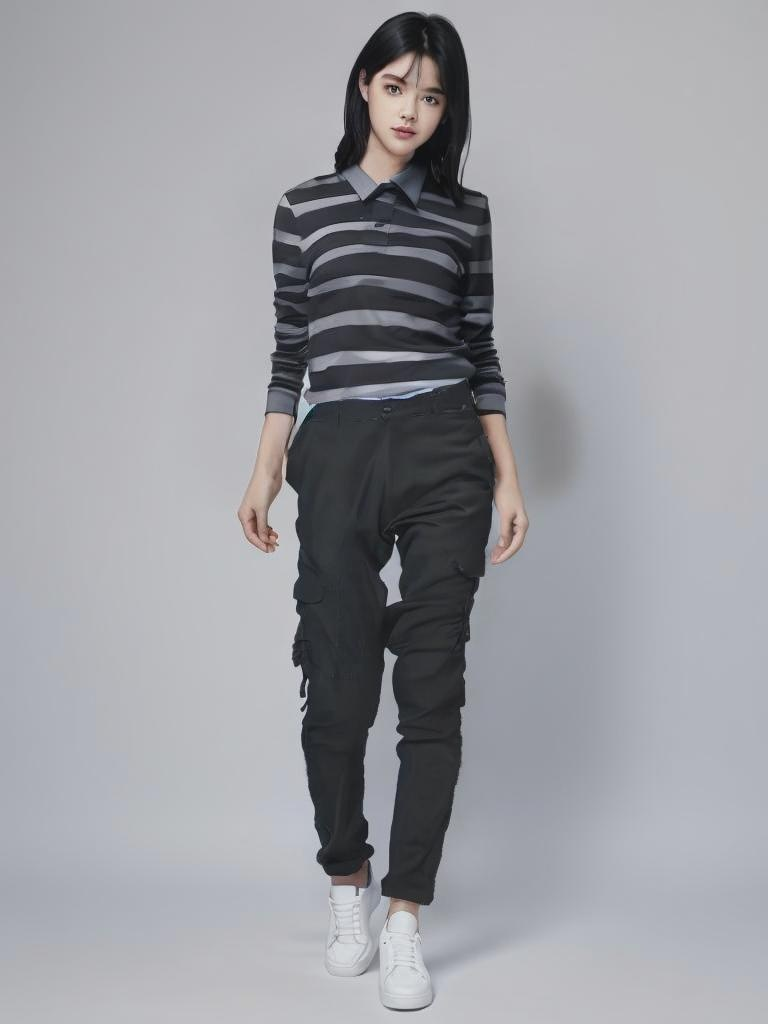
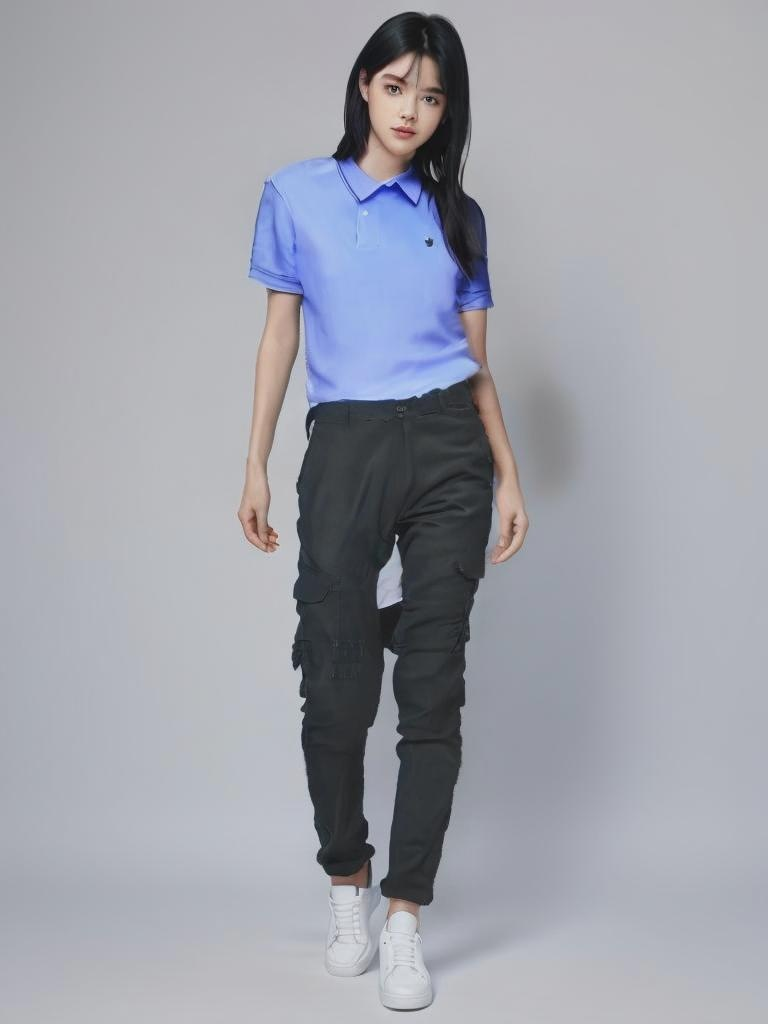
added user image

diff --git a/back/backend/rag.py b/back/backend/rag.py
@@ -123,13 +123,17 @@ def local_image_to_base64(image_path: str) -> str:
         base64_encoded = base64.b64encode(image_file.read()).decode('utf-8')
     return base64_encoded
 
-
+    
 async def segmind_diffusion(cloth_image_url: str = None, model_image_url: str = 'https://levihsu-ootdiffusion.hf.space/file=/tmp/gradio/aa9673ab8fa122b9c5cdccf326e5f6fc244bc89b/model_8.png', cloth_image_path: str = None, model_image_path: str = None, clothing_category: str = None):
     api_key = os.getenv("SEGMIND_API_KEY")
     url = "https://api.segmind.com/v1/try-on-diffusion"
-    print(clothing_category)
+    # print(model_image_path)
     # Get model image base64
-    model_image_b64 = local_image_to_base64(model_image_path) if model_image_path else await to_b64(model_image_url)
+    # model_image_b64 = local_image_to_base64(model_image_path) if model_image_path else await to_b64(model_image_url)
+    if model_image_path:
+        model_image_b64 = local_image_to_base64(model_image_path)
+    else:
+        model_image_b64 = await to_b64(model_image_url)
 
     # Get cloth image base64
     cloth_image_b64 = local_image_to_base64(cloth_image_path) if cloth_image_path else await to_b64(cloth_image_url)
@@ -174,15 +178,16 @@ async def viton_model(cloth_image: str = None, cloth_category: str = None, perso
     
     if model == "1":
         if cloth_image:
-            if person_image:
-                result = ootdiffusion_model(cloth_image, cloth_category, person_image)
-            else:
+            if person_image_path:
                 result = ootdiffusion_model(cloth_image, cloth_category, person_image_path)
-        else:
-            if person_image:
-                result = ootdiffusion_model(cloth_image_path, cloth_category, person_image)
             else:
+                result = ootdiffusion_model(cloth_image, cloth_category, person_image)
+        else:
+            if person_image_path:
                 result = ootdiffusion_model(cloth_image_path, cloth_category, person_image_path)
+            else:
+                result = ootdiffusion_model(cloth_image_path, cloth_category, person_image)
+                
                 
     elif model == "2":
         if cloth_category == "Upper-body":
@@ -190,6 +195,8 @@ async def viton_model(cloth_image: str = None, cloth_category: str = None, perso
         elif cloth_category == "Lower-body":
             cloth_category = "Lower body"
         print(cloth_category)
+        
+        print("Person Image Path:", person_image_path)
         result = await segmind_diffusion(cloth_image_url=cloth_image, model_image_url=person_image, clothing_category=cloth_category, cloth_image_path=cloth_image_path, model_image_path=person_image_path)
     
     return result

diff --git a/back/backend/app.py b/back/backend/app.py
@@ -31,6 +31,7 @@ app.add_middleware(
 )
 
 UPLOAD_DIR = os.getenv("UPLOADED_USER_IMAGES_FOLDER")
+UPLOADED_PERSON_IMAGE_NAME = None
 SQLITE_DB_PATH = os.path.join(os.getenv("SQLITE_DB_PATH"), "myntra.db")
 EXTRACTED_CLOTH_IMAGES_FOLDER = os.getenv("EXTRACTED_CLOTH_IMAGES_FOLDER")
 
@@ -61,7 +62,7 @@ async def get_images(search: dict):
         }
     )
     
-    final_image = await viton_model(cloth_image_path=os.path.join(EXTRACTED_CLOTH_IMAGES_FOLDER, extracted_image_1), cloth_category=category_1) # along with these parameters, we can also pass the user image
+    final_image = await viton_model(cloth_image_path=os.path.join(EXTRACTED_CLOTH_IMAGES_FOLDER, extracted_image_1), cloth_category=category_1, person_image_path=os.path.join(UPLOAD_DIR, UPLOADED_PERSON_IMAGE_NAME)) # along with these parameters, we can also pass the user image
     
     try:
         extracted_image_2 = extracted_images[1]
@@ -117,7 +118,7 @@ async def get_recommendations(data: dict):
     elif main_category == "Dress (Full Length)":
         category = "Dress"
         
-    extracted_image_path = await viton_model(cloth_image_path=os.path.join(EXTRACTED_CLOTH_IMAGES_FOLDER, extracted_image), cloth_category=category)
+    extracted_image_path = await viton_model(cloth_image_path=os.path.join(EXTRACTED_CLOTH_IMAGES_FOLDER, extracted_image), cloth_category=category, person_image_path=os.path.join(UPLOAD_DIR, UPLOADED_PERSON_IMAGE_NAME))
 
     if main_category == "Top Wear":
         recommended_category = "Bottom Wear"
@@ -220,6 +221,10 @@ async def get_user_image(file: UploadFile = File(...)):
         if file.content_type not in ["image/jpeg", "image/png", "image/gif"]:
             raise HTTPException(status_code=400, detail="Unsupported file type.")
 
+        global UPLOADED_PERSON_IMAGE_NAME
+        UPLOADED_PERSON_IMAGE_NAME = file.filename
+        print(UPLOADED_PERSON_IMAGE_NAME)
+        
         # Define the path where the image will be saved
         image_path = os.path.join(UPLOAD_DIR, file.filename)
 
